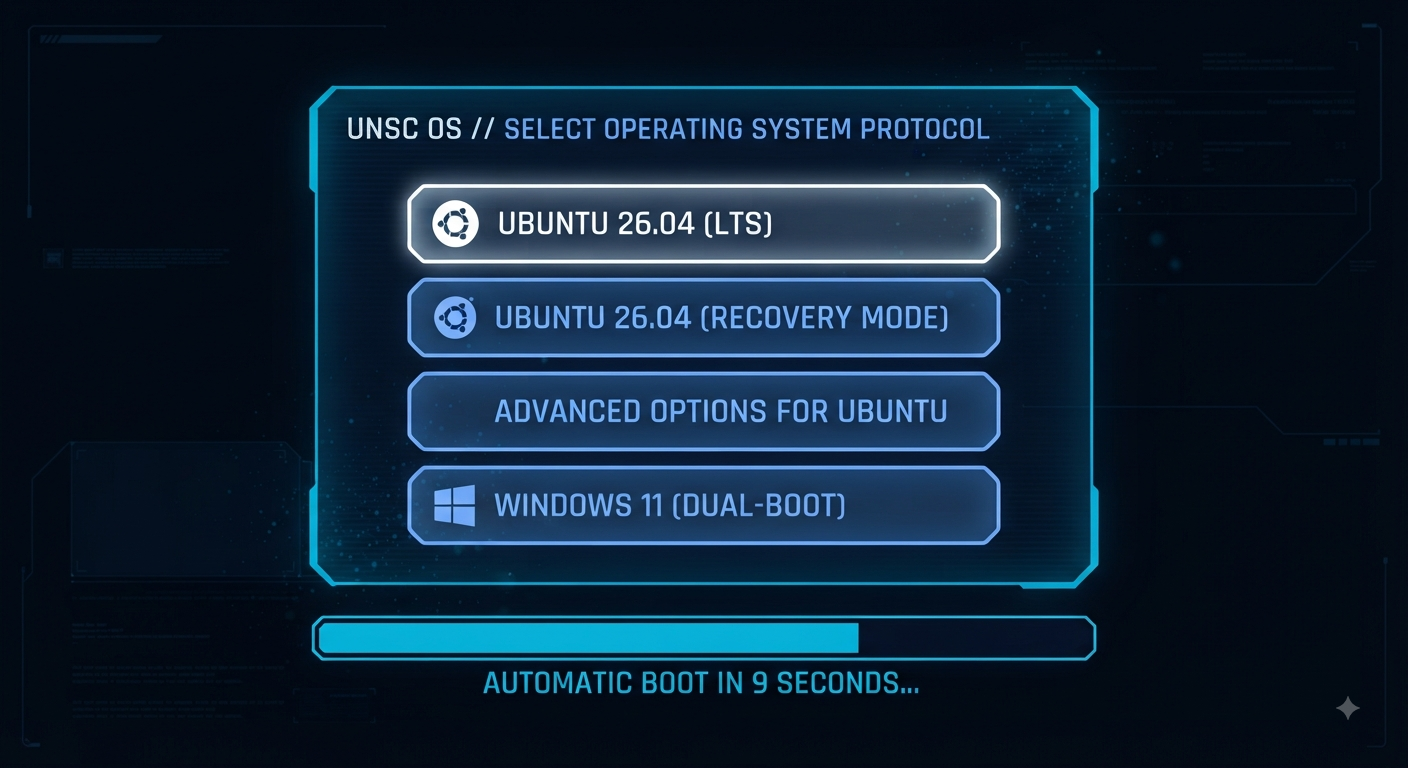
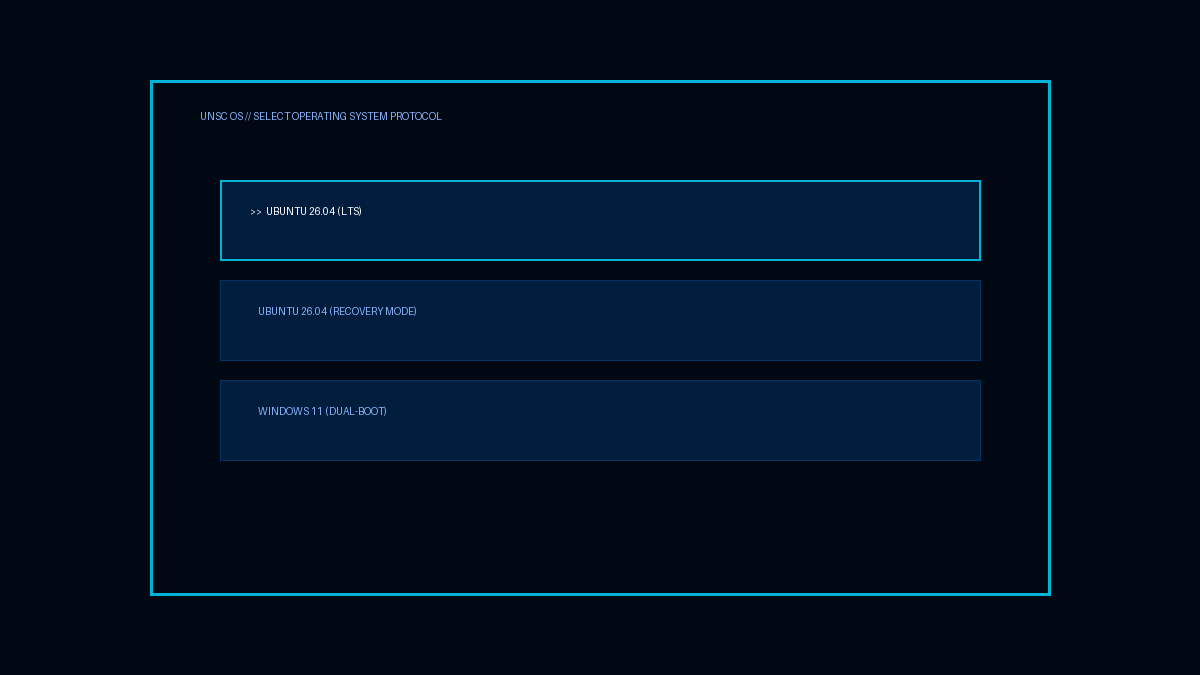
readme.md
Penambahan readme.md

diff --git a/README.md b/README.md
@@ -1,22 +1,47 @@
-# unsc_cortana
-Grub2 Themes unsc Cortana 
-UNSC Cortana GRUB2 Theme
-========================
+# UNSC Cortana GRUB2 Theme
 
-Cara Pemasangan:
-1. Salin folder 'unsc_cortana' ke direktori /boot/grub/themes/ di sistem Linux Anda:
-   sudo cp -r unsc_cortana /boot/grub/themes/
+Tema GRUB2 kustom dengan estetika antarmuka teknologi militer **UNSC** dan hologram **Cortana** dari semesta *Halo*, dioptimalkan khusus untuk **Ubuntu 26.04**.
 
-2. Untuk membuat file font.pf2 yang valid (karena format .pf2 adalah biner khusus GRUB), 
-   jalankan perintah berikut di terminal Linux Anda menggunakan font sistem berformat .ttf:
-   grub-mkfont -o /boot/grub/themes/unsc_cortana/font.pf2 /usr/share/fonts/truetype/dejavu/DejaVuSans-Bold.ttf --size=16
+## Preview Tampilan
+![Preview Tema GRUB2](./preview.png)
 
-3. Edit file konfigurasi GRUB:
+## Fitur Utama
+- **Card-Style OS Selection:** Tata letak menu boot dirancang per item di dalam kartu/panel terpisah agar pemilihan sistem operasi terlihat rapi dan futuristik.
+- **Palet Warna Hologram:** Didominasi warna biru khas sistem holografik AI Cortana (`#8ab4f8` dan `#00b4d8`) di atas latar belakang gelap militer.
+- **Ubuntu 26.04 Optimized:** Kompatibel penuh dengan resolusi layar tinggi dan konfigurasi framebuffer modern.
+
+---
+
+## Cara Pemasangan (Installation Guide)
+
+1. **Salin Folder Tema**
+   Pindahkan folder tema ini ke direktori GRUB di sistem Linux Anda:
+   ```bash
+   sudo cp -r unsc_cortana_cards /boot/grub/themes/
+   ```
+
+2. **Generate File Font `.pf2`**
+   GRUB memerlukan format font khusus `.pf2`. Buat file font dari font sistem Anda (misalnya DejaVuSans-Bold atau font truetype lainnya) menggunakan perintah:
+   ```bash
+   sudo grub-mkfont -o /boot/grub/themes/unsc_cortana_cards/UnscFont.pf2 /usr/share/fonts/truetype/dejavu/DejaVuSans-Bold.ttf --size=16
+   ```
+
+3. **Konfigurasi File `/etc/default/grub`**
+   Buka file konfigurasi GRUB menggunakan editor teks:
+   ```bash
    sudo nano /etc/default/grub
-   Tambahkan baris berikut:
-   GRUB_THEME="/boot/grub/themes/unsc_cortana/theme.txt"
+   ```
+   Tambahkan atau sesuaikan baris berikut:
+   ```bash
+   GRUB_GFXMODE=1920x1080,auto
+   GRUB_GFXPAYLOAD_LINUX=keep
    GRUB_TIMEOUT_STYLE="menu"
+   GRUB_TIMEOUT="10"
+   GRUB_THEME="/boot/grub/themes/unsc_cortana_cards/theme.txt"
+   ```
 
-4. Perbarui GRUB:
-   sudo update-grub  (atau sudo grub-mkconfig -o /boot/grub/grub.cfg)
-
+4. **Perbarui GRUB**
+   Terapkan perubahan pada sistem Anda:
+   ```bash
+   sudo update-grub
+   ```
